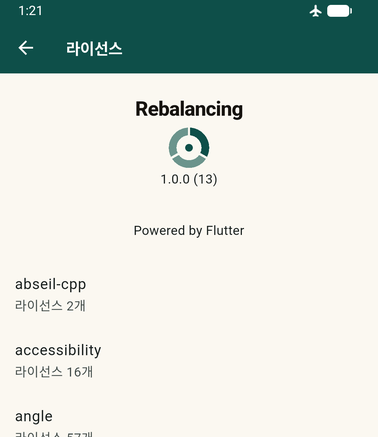
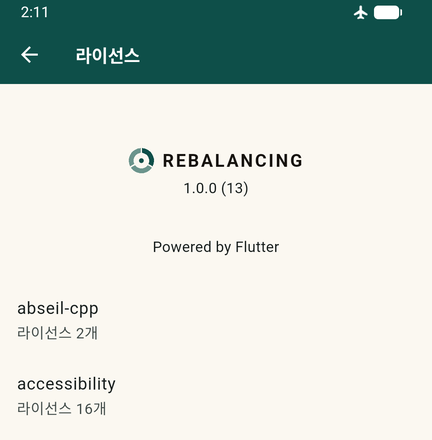
fix(ui): 온보딩 머리글 정렬(진짜로) · 안내창 줄바꿈 · 라이선스 로고
## 1. 머리글이 카드보다 안쪽에서 시작하던 것

**지난번에 못 고쳤다.** 바깥 `Column`에 정렬을 안 줘서 기본값인 center가
걸리고, 머리글 덩어리가 통째로 가운데로 밀렸다. 목록은 `Expanded`라 폭을
꽉 채우니 제목만 들어간 것처럼 보인다. `stretch`를 준다.

**시험이 헛통과했다.** 폭 360 하나만 봤는데, 좁은 화면에서는 덩어리가
화면을 꽉 채워 어긋남이 0이 된다. 360·393·411·480에서 재게 고쳤고,
고치기 전 코드로 되돌려 실제로 실패하는 것을 확인했다.

실기기에서 잰 값: 제목 169 → 55 (카드 왼쪽 변 52).

## 2. 안내창 문구가 마지막 글자만 넘어갔다

「…벌어졌는 / 지」, 「…있습 / 니다.」. 한 줄에 다 넣으려다 그랬다.
**언제**를 작은 줄로 올리고 **무엇**을 아래에 두어 각 줄을 짧게 만들고,
아래 설명도 17자 넘지 않게 줄여 줄바꿈을 우리가 정한다. 창도 조금 넓혔다.

## 3. 라이선스의 앱 이름

플러터 기본은 이름을 그냥 굵은 글자로 찍는다. 헤더·스플래시·온보딩이
모두 「마크 + REBALANCING」을 쓰므로 여기만 따로 놀았다. 이름 자리를
비우고 로고를 통째로 넣는다. `AppLogo`에 밝은 바탕용 색을 더했다.

확인 기록: docs/review/notif_primer.png, license_page.png

diff --git a/lib/widgets/notification_primer.dart b/lib/widgets/notification_primer.dart
@@ -57,6 +57,8 @@ class NotificationPrimer extends StatelessWidget {
     // (종료 확인 창과 같은 구성).
     return Dialog(
       backgroundColor: context.cardBg,
+      // 기본값(40)보다 넓게 쓴다 — 좁을수록 한글이 더 자주 넘어간다.
+      insetPadding: const EdgeInsets.symmetric(horizontal: 26, vertical: 24),
       shape: RoundedRectangleBorder(borderRadius: BorderRadius.circular(20)),
       child: Padding(
         padding: const EdgeInsets.fromLTRB(22, 24, 22, 18),
@@ -101,29 +103,36 @@ class NotificationPrimer extends StatelessWidget {
               child: Column(
                 crossAxisAlignment: CrossAxisAlignment.start,
                 children: [
+                  // **언제**를 작은 줄로 위에 올리고 **무엇**을 아래에 둔다.
+                  // 한 줄에 다 넣으면 좁은 폭에서 「…벌어졌는 / 지」처럼
+                  // 마지막 글자만 넘어가 보기 싫다. 두 줄로 나누면 각 줄이
+                  // 짧아져 어느 기기에서도 안 넘어간다.
                   _point(
                     context,
-                    isKo
-                        ? '정해 둔 날에, 비중이 얼마나 벌어졌는지'
-                        : 'How far your weights drifted, on the day you pick',
+                    when: isKo ? '정해 둔 날에' : 'On the day you pick',
+                    what: isKo
+                        ? '비중이 얼마나 벌어졌는지'
+                        : 'how far your weights drifted',
                   ),
-                  const SizedBox(height: 10),
+                  const SizedBox(height: 12),
                   _point(
                     context,
-                    isKo
-                        ? '월·분기·연이 끝나면, 그 기간 수익률'
-                        : 'Your return for each month, quarter and year',
+                    when: isKo ? '월·분기·연이 끝나면' : 'When a period closes',
+                    what: isKo ? '그 기간 수익률' : 'your return for it',
                   ),
                 ],
               ),
             ),
             const SizedBox(height: 14),
             Text(
+              // **한 줄에 17자를 넘기지 않는다.** 넘으면 마지막 한두 글자만
+              // 다음 줄로 떨어져(「…있습 / 니다.」) 보기 싫다. 문장을 줄여
+              // 줄바꿈을 우리가 정한다.
               isKo
-                  ? '앱을 열지 않아도 챙길 수 있고, 언제든 끌 수 있습니다.\n'
-                      '광고나 홍보는 보내지 않습니다.'
-                  : "You don't have to open the app, and you can turn this "
-                      'off any time. We never send ads.',
+                  ? '앱을 열지 않아도 챙길 수 있습니다.\n'
+                      '언제든 끌 수 있고, 광고는 없습니다.'
+                  : "You don't need to open the app.\n"
+                      'Turn it off any time. No ads.',
               style: TextStyle(
                   fontSize: 12, height: 1.55, color: context.textTertiary),
             ),
@@ -178,12 +187,13 @@ class NotificationPrimer extends StatelessWidget {
     );
   }
 
-  Widget _point(BuildContext context, String text) {
+  Widget _point(BuildContext context,
+      {required String when, required String what}) {
     return Row(
       crossAxisAlignment: CrossAxisAlignment.start,
       children: [
         Padding(
-          padding: const EdgeInsets.only(top: 6),
+          padding: const EdgeInsets.only(top: 7),
           child: Container(
             width: 4,
             height: 4,
@@ -193,11 +203,23 @@ class NotificationPrimer extends StatelessWidget {
         ),
         const SizedBox(width: 10),
         Expanded(
-          child: Text(text,
-              style: TextStyle(
-                  fontSize: 13,
-                  height: 1.45,
-                  color: context.textPrimary)),
+          child: Column(
+            crossAxisAlignment: CrossAxisAlignment.start,
+            children: [
+              Text(when,
+                  style: TextStyle(
+                      fontSize: 11.5,
+                      fontWeight: FontWeight.w600,
+                      color: context.textTertiary)),
+              const SizedBox(height: 1),
+              Text(what,
+                  style: TextStyle(
+                      fontSize: 13.5,
+                      fontWeight: FontWeight.w600,
+                      height: 1.35,
+                      color: context.textPrimary)),
+            ],
+          ),
         ),
       ],
     );

diff --git a/test/onboarding_test.dart b/test/onboarding_test.dart
@@ -243,4 +243,47 @@ void main() {
     expect(order[0] < order[1], isTrue, reason: '직접 기록이 맨 위여야 한다');
     expect(order[1] < order[2], isTrue, reason: '파일 올리기가 맨 아래여야 한다');
   });
+
+  // **여러 폭에서 잰다.** 폭 하나만 보면 못 잡는다 — 바깥 Column의 기본
+  // 정렬이 center라 머리글 덩어리가 통째로 가운데로 밀렸는데, 좁은 화면에서는
+  // 덩어리가 화면을 꽉 채워 어긋남이 0이 된다. 360px 시험은 통과하고
+  // 실기기(411px)에서만 틀어져서 사용자가 두 번 지적했다.
+  for (final w in const [360.0, 393.0, 411.0, 480.0]) {
+    testWidgets('제목이 카드와 같은 왼쪽 선에서 시작한다 (폭 ${w.toInt()})',
+        (tester) async {
+      await open(tester, size: Size(w, 900));
+      await tester.drag(find.byType(PageView), const Offset(-400, 0));
+      await tester.pumpAndSettle();
+
+      // 2쪽
+      final how = tester.getRect(find.text('세 걸음이면 됩니다')).left;
+      final howCard = tester
+          .getRect(find.ancestor(
+              of: find.text('계좌를 만들고 종목을 담습니다'),
+              matching: find.byType(Container)).first)
+          .left;
+      expect(howCard, closeTo(how, 0.5),
+          reason: '2쪽 제목과 카드 왼쪽 변이 다르다');
+
+      await tester.drag(find.byType(PageView), const Offset(-400, 0));
+      await tester.pumpAndSettle();
+
+      // 3쪽
+      final title = tester.getRect(find.text('어떻게 시작할까요')).left;
+      final sub =
+          tester.getRect(find.textContaining('잘 알려진 자산배분을')).left;
+      final card = tester
+          .getRect(find.ancestor(
+              of: find.text('올웨더 포트폴리오'),
+              matching: find.byType(AnimatedContainer)).first)
+          .left;
+
+      expect(sub, closeTo(title, 0.5), reason: '3쪽 부제가 제목과 안 맞는다');
+      expect(card, closeTo(title, 0.5),
+          reason: '3쪽 제목(${title.toStringAsFixed(1)})과 '
+              '카드 왼쪽 변(${card.toStringAsFixed(1)})이 다르다');
+    });
+  }
 }
+
+// ── 여백 검사는 파일 끝에 따로 둔다 ──

diff --git a/lib/widgets/app_logo.dart b/lib/widgets/app_logo.dart
@@ -2,6 +2,8 @@ import 'dart:math' as math;
 
 import 'package:flutter/material.dart';
 
+import '../main.dart';
+
 /// 「목표 비중」 마크 + REBALANCING 글자.
 ///
 /// 마크는 앱 아이콘과 **같은 그림**이다 — 세 조각으로 나뉜 고리와 가운데 점.
@@ -21,16 +23,23 @@ class AppLogo extends StatelessWidget {
   /// 아주 작을 때(24px 이하) 쓴다. 조각을 나눠 봐야 안 보인다.
   final bool mono;
 
+  /// 밝은 바탕(크림) 위에 놓이는가.
+  ///
+  /// 기본 마크는 딥그린 바탕 전용이다 — 조각 두 개가 크림과 **같은 색**이라
+  /// 밝은 바탕에서는 통째로 사라진다. 라이선스 화면에서 실제로 그랬다.
+  final bool onLight;
+
   const AppLogo({
     super.key,
     this.iconSize = 26,
     this.textColor,
     this.mono = false,
+    this.onLight = false,
   });
 
   @override
   Widget build(BuildContext context) {
-    final fg = textColor ?? Colors.white;
+    final fg = textColor ?? (onLight ? context.textPrimary : Colors.white);
     return Row(
       mainAxisSize: MainAxisSize.min,
       crossAxisAlignment: CrossAxisAlignment.center,
@@ -41,7 +50,11 @@ class AppLogo extends StatelessWidget {
           child: CustomPaint(
             painter: mono
                 ? TargetMarkPainter(accent: fg, light: fg, fill: true)
-                : const TargetMarkPainter(fill: true),
+                : onLight
+                    // 밝은 바탕에서는 역할을 뒤집는다 — 딥그린이 「눈에 띄는
+                    // 조각」이 되고 나머지는 세이지로 물러난다.
+                    ? const TargetMarkPainter.onLight(fill: true)
+                    : const TargetMarkPainter(fill: true),
           ),
         ),
         SizedBox(width: iconSize * 0.30),

diff --git a/lib/screens/more_screen.dart b/lib/screens/more_screen.dart
@@ -609,19 +609,18 @@ class _MoreScreenState extends State<MoreScreen> {
             ),
           ),
           child: LicensePage(
-            applicationName: appName,
+            // **앱 이름은 다른 화면과 같은 로고 잠금 구성으로 쓴다.**
+            // 플러터 기본은 이름을 그냥 굵은 글자로 찍는데, 헤더·스플래시·
+            // 온보딩이 모두 「마크 + REBALANCING」을 쓰므로 여기만 따로 논다.
+            //
+            // 그래서 이름 자리는 비우고 [applicationIcon]에 로고를 통째로
+            // 넣는다. 크림 바탕이라 밝은 바탕용 색을 쓴다 — 기본 마크는
+            // 조각 두 개가 크림과 같은 색이라 통째로 사라진다.
+            applicationName: '',
             applicationVersion: appVersionLabel,
-            // **밝은 바탕용 마크를 쓴다.** 기본 마크는 조각 두 개가
-            // 크림과 같은 색이라 이 화면에서 통째로 사라진다.
             applicationIcon: const Padding(
-              padding: EdgeInsets.only(top: 6, bottom: 2),
-              child: SizedBox(
-                width: 44,
-                height: 44,
-                child: CustomPaint(
-                  painter: TargetMarkPainter.onLight(fill: true),
-                ),
-              ),
+              padding: EdgeInsets.only(top: 8, bottom: 4),
+              child: AppLogo(iconSize: 24, onLight: true),
             ),
           ),
         );

diff --git a/lib/screens/onboarding_screen.dart b/lib/screens/onboarding_screen.dart
@@ -267,7 +267,13 @@ class _OnboardingScreenState extends State<OnboardingScreen> {
 
   Widget _buildHow(BuildContext context, bool isKo) {
     return SafeArea(
+      // **stretch를 준다.** 안 주면 Column의 기본값이 center라 머리글
+      // 덩어리가 통째로 가운데로 밀린다 — 목록은 Expanded라 폭을 꽉 채우니
+      // 제목만 안쪽으로 들어간 것처럼 보인다. 좁은 화면에서는 덩어리가
+      // 화면을 꽉 채워 티가 안 나서, 360px 시험은 통과하고 실기기에서만
+      // 어긋났다.
       child: Column(
+        crossAxisAlignment: CrossAxisAlignment.stretch,
         children: [
           Padding(
             padding: const EdgeInsets.fromLTRB(_pagePadH, 18, _pagePadH, 0),
@@ -425,7 +431,9 @@ class _OnboardingScreenState extends State<OnboardingScreen> {
     final samples = _getSamples(isKo);
 
     return SafeArea(
+      // 2쪽과 같은 이유로 stretch (위 설명 참고).
       child: Column(
+        crossAxisAlignment: CrossAxisAlignment.stretch,
         children: [
           Padding(
             padding: const EdgeInsets.fromLTRB(_pagePadH, 24, _pagePadH, 0),
